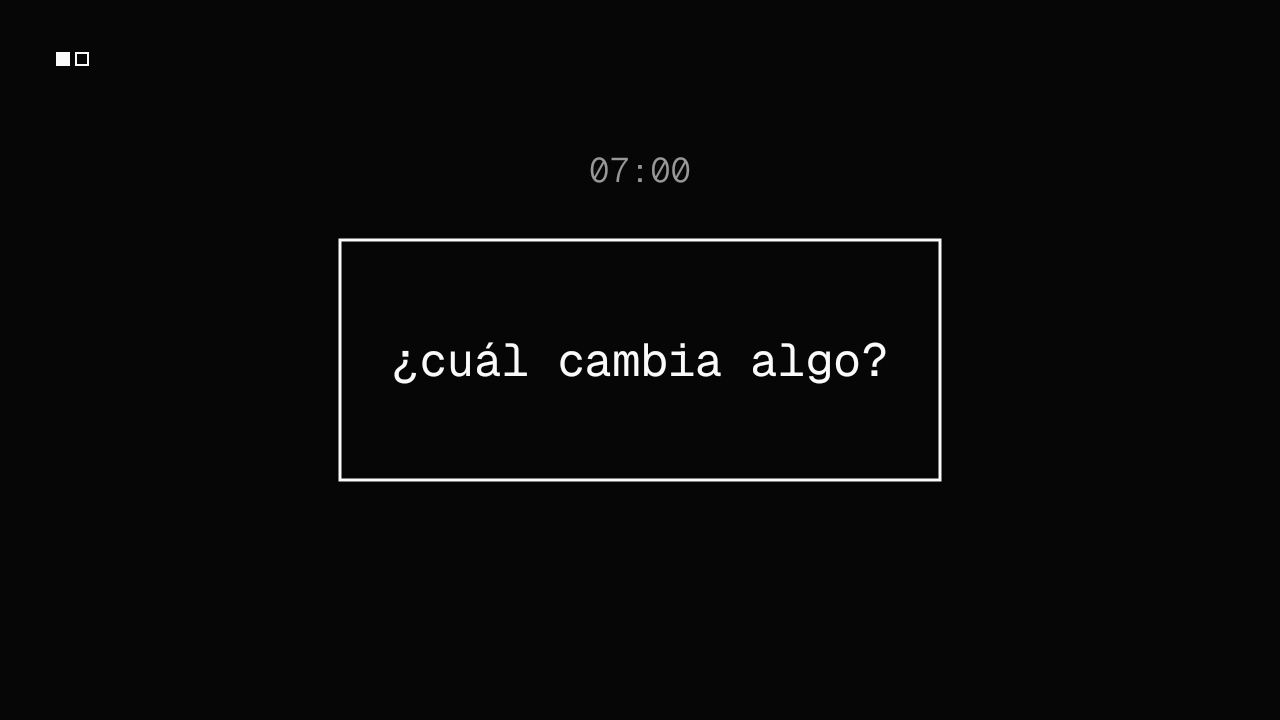
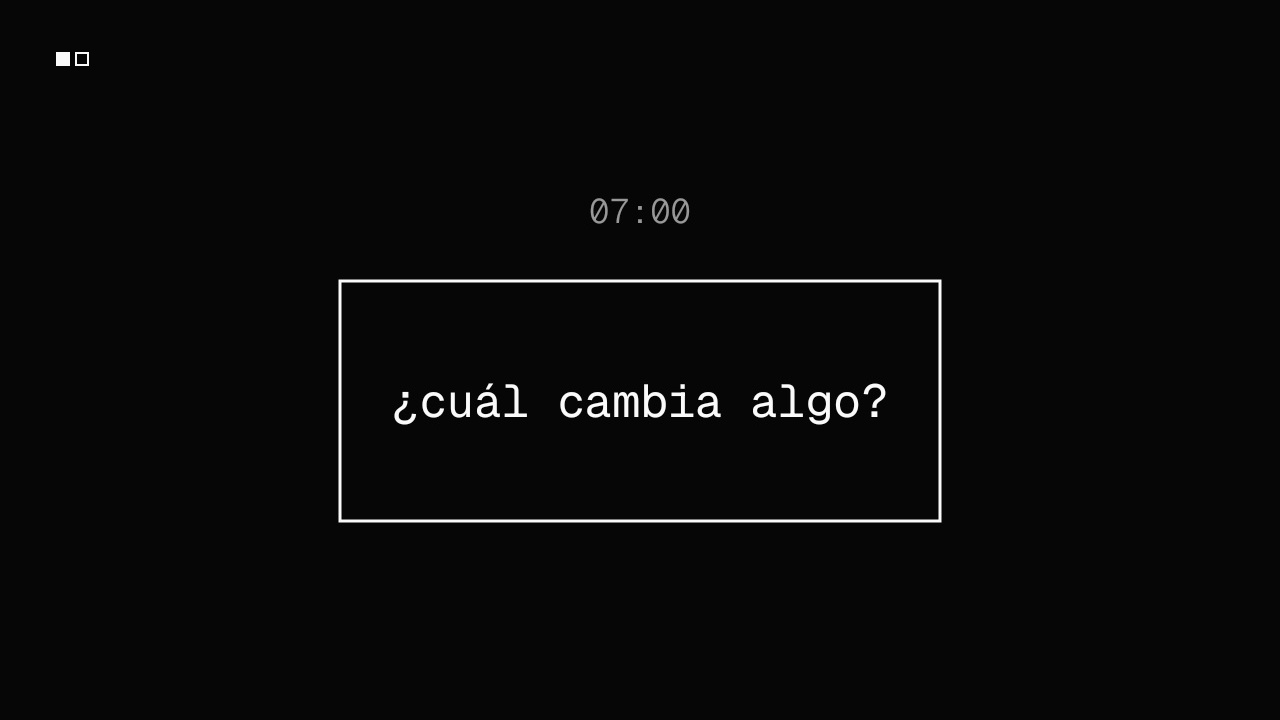
Miniaturas YouTube ep02–ep06 centradas
Claude-Session: https://claude.ai/code/session_01K7TT2WKwQDWyVHeTuDdzw2

diff --git a/generador/thumb-ep02.js b/generador/thumb-ep02.js
@@ -1,0 +1,15 @@
+const { Canvas, FontLibrary } = require('skia-canvas'); const fs = require('fs');
+const FD = '/tmp/claude-0/-home-claude/525290eb-24d3-57f0-908c-10012545278e/scratchpad/reel/fonts/'; FontLibrary.use('Geist Mono', fs.readdirSync(FD).map(f => FD + f));
+const W = 1280, H = 720;
+function mk(name, inv, draw) { const c = new Canvas(W, H), o = c.getContext('2d'), fg = inv ? '#0a0a0a' : '#fafafa'; o.fillStyle = inv ? '#f4f4f2' : '#060606'; o.fillRect(0, 0, W, H);
+  const T = (s, x, y, sz, a = 1, w = 300, al = 'center', col) => { o.font = `${w} ${sz}px "Geist Mono"`; o.globalAlpha = a; o.fillStyle = col || fg; o.textAlign = al; o.textBaseline = 'middle'; o.fillText(s, x, y); o.globalAlpha = 1; return o.measureText(s).width; };
+  const R = (x, y, w, h, a = 1) => { o.globalAlpha = a; o.fillStyle = fg; o.fillRect(x, y, w, h); o.globalAlpha = 1; };
+  const B = (x, y, w, h, lw = 3, a = 1) => { o.globalAlpha = a; o.strokeStyle = fg; o.lineWidth = lw; o.strokeRect(x, y, w, h); o.globalAlpha = 1; };
+  draw({ T, R, B, inv }); R(56, 52, 14, 14); B(76, 53, 12, 12, 2); c.toFileSync(`/home/claude/campana/c/yt-ep02-${name}.jpg`, { quality: .95 }); }
+// A — cinco "sí" llenos se comen tu día; lo tuyo queda vacío
+mk('a', 0, ({ T, R, B }) => { const s = 130, g = 22, lh = 26, lg = 40, gh = s + lg + lh / 2, x0 = (W - (6 * s + 5 * g)) / 2, y = Math.round((H - gh) / 2);
+  for (let i = 0; i < 6; i++) { const x = x0 + i * (s + g); if (i < 5) { R(x, y, s, s, .92); T('sí', x + s / 2, y + s / 2 + 0.5, 40, 1, 400, 'center', '#060606'); } else { B(x, y, s, s, 3); T('lo tuyo', x + s / 2, y + s + lg, lh, 1, 400); } } });
+// B — tachado: sí → no.
+mk('b', 0, ({ T, R, B }) => { const y = 340, w1 = T('sí', 400, y, 110, .45, 300, 'left'); R(388, y - 2, w1 + 24, 7, .9); const x2 = 400 + w1 + 120; const w2 = T('no.', x2, y, 110, 1, 400, 'left'); B(x2 - 40, y - 110, w2 + 80, 220, 4); });
+// C — invertido: 1 sí = 1 hora
+mk('c', 1, ({ T, R, B }) => { T('1 sí', W / 2 - 240, 330, 72, 1, 400); T('=', W / 2, 330, 72, .6); T('1 h', W / 2 + 220, 330, 72, 1, 400); R(W / 2 - 300, 430, 600, 4, .9); T('que no es tuya', W / 2, 480, 28, .7); });
